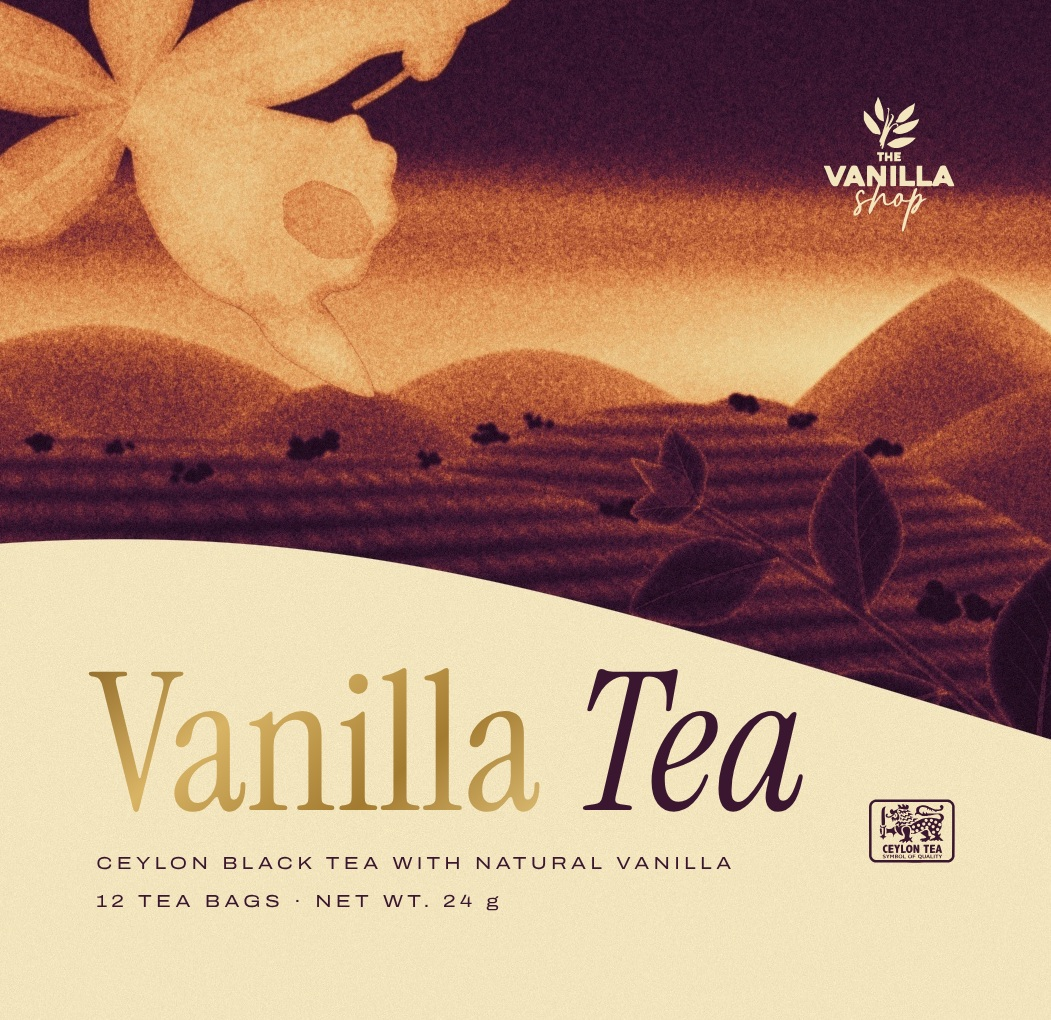
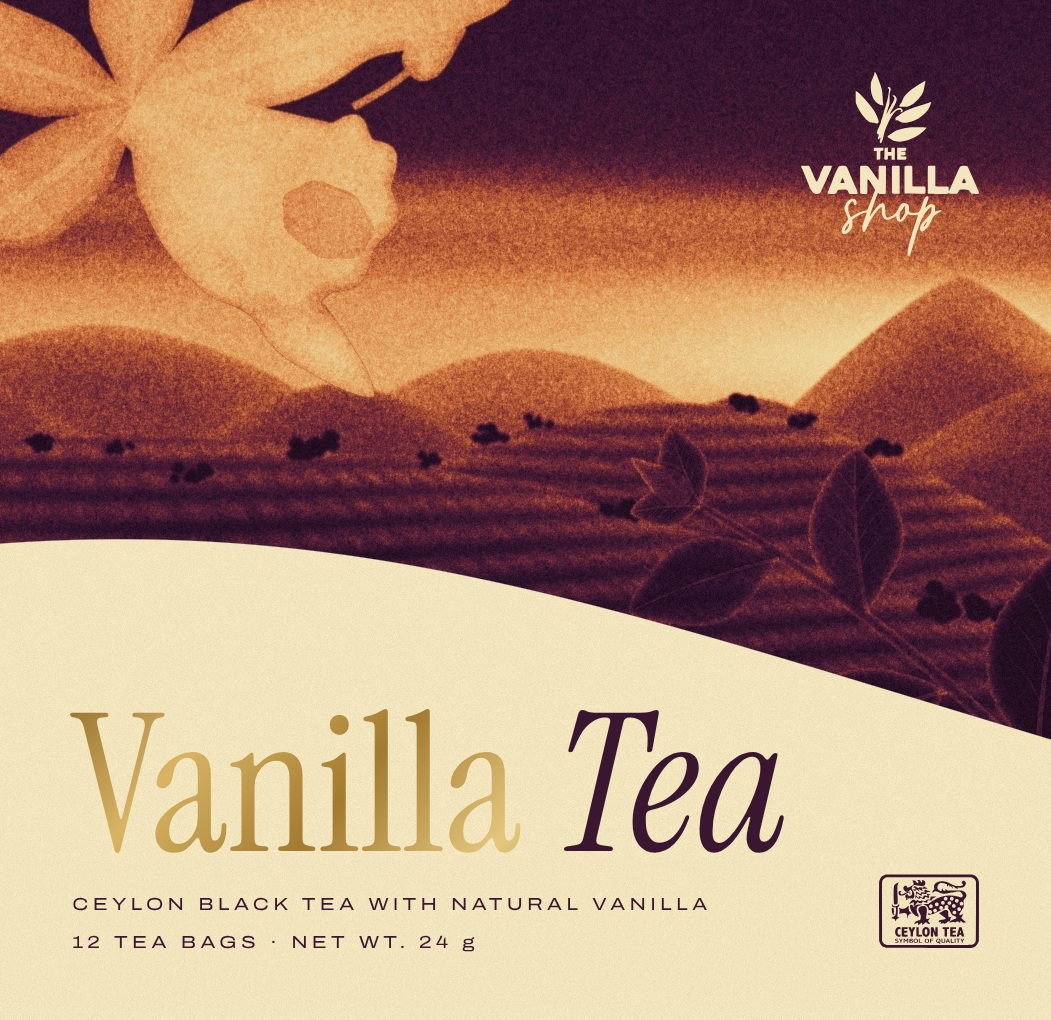
Tea: front type and marks on a 6 mm corner system
Logo 15 mm wide, its ink tight in the top-right corner of a 6 mm margin.
The type anchored bottom-left, last baseline on the bottom margin, the V's
overhang pulled in to meet the caps' edge. The lion closes the bottom-right
corner on the same baseline. Ink boxes measured from the brand SVGs.

Claude-Session: https://claude.ai/code/session_01Psd6wLDi15Gf4F1fXEFmxS

diff --git a/vanilla-shop/studies/tea/bandsystem/estate_front.py b/vanilla-shop/studies/tea/bandsystem/estate_front.py
@@ -30,14 +30,23 @@ def compose(src,dst):
     Image.fromarray(out.clip(0,255).astype(np.uint8)).save(O+dst,quality=95)
 def T(t,x,y,sz,c,f,a='start',tr=0.0): return f'<text x="{x:.2f}" y="{y:.2f}" font-family="{f}" font-size="{sz}" letter-spacing="{sz*tr:.3f}" fill="{c}" text-anchor="{a}">{t}</text>'
 def overlay(x=8,top=False):
-    """top=True: the logo in the sky's free top-right corner, in the cream; the name block lifted toward the curve"""
-    M=8.0; lw=11.0; lh=lw*963/933                                                                  # one margin on every edge
-    lg=logo(FW-M-lw/2,M+lh/2,lw,CREAM) if top else logo(x+4.1,52.6,8.2,GREEN); dy=-5 if top else 0      # logo in the margin's top-right corner
+    """top=True: a corner system on one 6 mm margin. The logo large in the top-right corner; the type anchored to the
+    bottom-left (last baseline on the bottom margin, the V's overhang pulled in so its ink meets the caps' left edge);
+    the lion closing the bottom-right corner, standing on the same baseline. Ink boxes measured from the brand SVGs."""
+    if not top:
+        return [f'<defs>{LEAF}</defs>', logo(x+4.1,52.6,8.2,GREEN),
+                f'<text x="{x-0.3}" y="72.5" font-size="16"><tspan font-family="ISR" fill="url(#leaf)">Vanilla</tspan><tspan font-family="IS" fill="{GREEN}"> Tea</tspan></text>',
+                T('CEYLON BLACK TEA WITH NATURAL VANILLA',x,77.4,1.45,GREEN,'RW',tr=0.24),
+                T('12 TEA BAGS  ·  NET WT. 24 g',x,80.6,1.45,GREEN,'RW',tr=0.24), lion(FW-14.6,71.6,7.2,GREEN)]
+    M=6.0; base=FH-M; x=M
+    lw=15.0; s_=lw/933; ink=lambda v:v*s_                                                       # logo ink: 6..927.6 x 6.3..957.9 of 933 x 963
+    lg=f'<g transform="translate({FW-M-ink(927.6)+ink(0):.3f} {M-ink(6.3):.3f})">{logo(lw/2,963*s_/2,lw,CREAM)}</g>'
+    ln=8.4; sl=ln/1211; lnx=FW-M-1206*sl; lny=base-890*sl                                          # lion ink: 6..1206 x 6..890 of 1211 x 895
     return [f'<defs>{LEAF}</defs>', lg,
-            f'<text x="{x-0.3}" y="{72.5+dy}" font-size="16"><tspan font-family="ISR" fill="url(#leaf)">Vanilla</tspan><tspan font-family="IS" fill="{GREEN}"> Tea</tspan></text>',
-            T('CEYLON BLACK TEA WITH NATURAL VANILLA',x,77.4+dy,1.45,GREEN,'RW',tr=0.24),
-            T('12 TEA BAGS  ·  NET WT. 24 g',x,80.6+dy,1.45,GREEN,'RW',tr=0.24),
-            lion(FW-8-7.2,71.6+dy,7.2,GREEN)]                                                          # right edge on the logo's axis
+            f'<text x="{x+0.12}" y="{base-8.1:.2f}" font-size="16"><tspan font-family="ISR" fill="url(#leaf)">Vanilla</tspan><tspan font-family="IS" fill="{GREEN}"> Tea</tspan></text>',
+            T('CEYLON BLACK TEA WITH NATURAL VANILLA',x,base-3.2,1.45,GREEN,'RW',tr=0.24),
+            T('12 TEA BAGS  ·  NET WT. 24 g',x,base,1.45,GREEN,'RW',tr=0.24),
+            lion(lnx,lny,ln,GREEN)]
 if __name__=='__main__':
     import os; os.environ['NOSHOOT']='1'; import garden as G
     G.NEAR=lambda xs: edge(xs)-8.5                                                                  # the near hill's rows run with the edge
